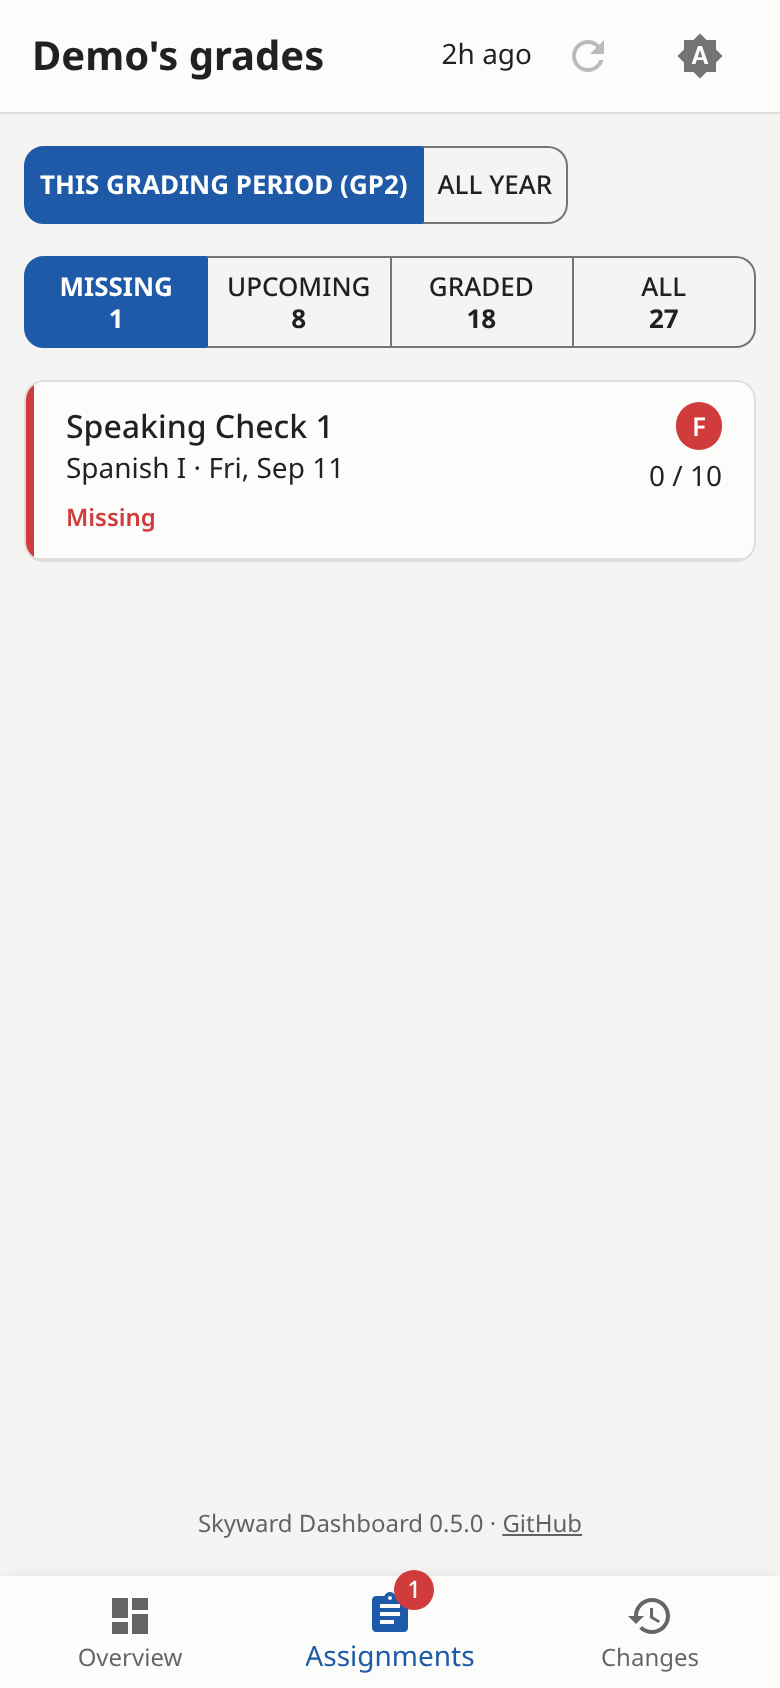
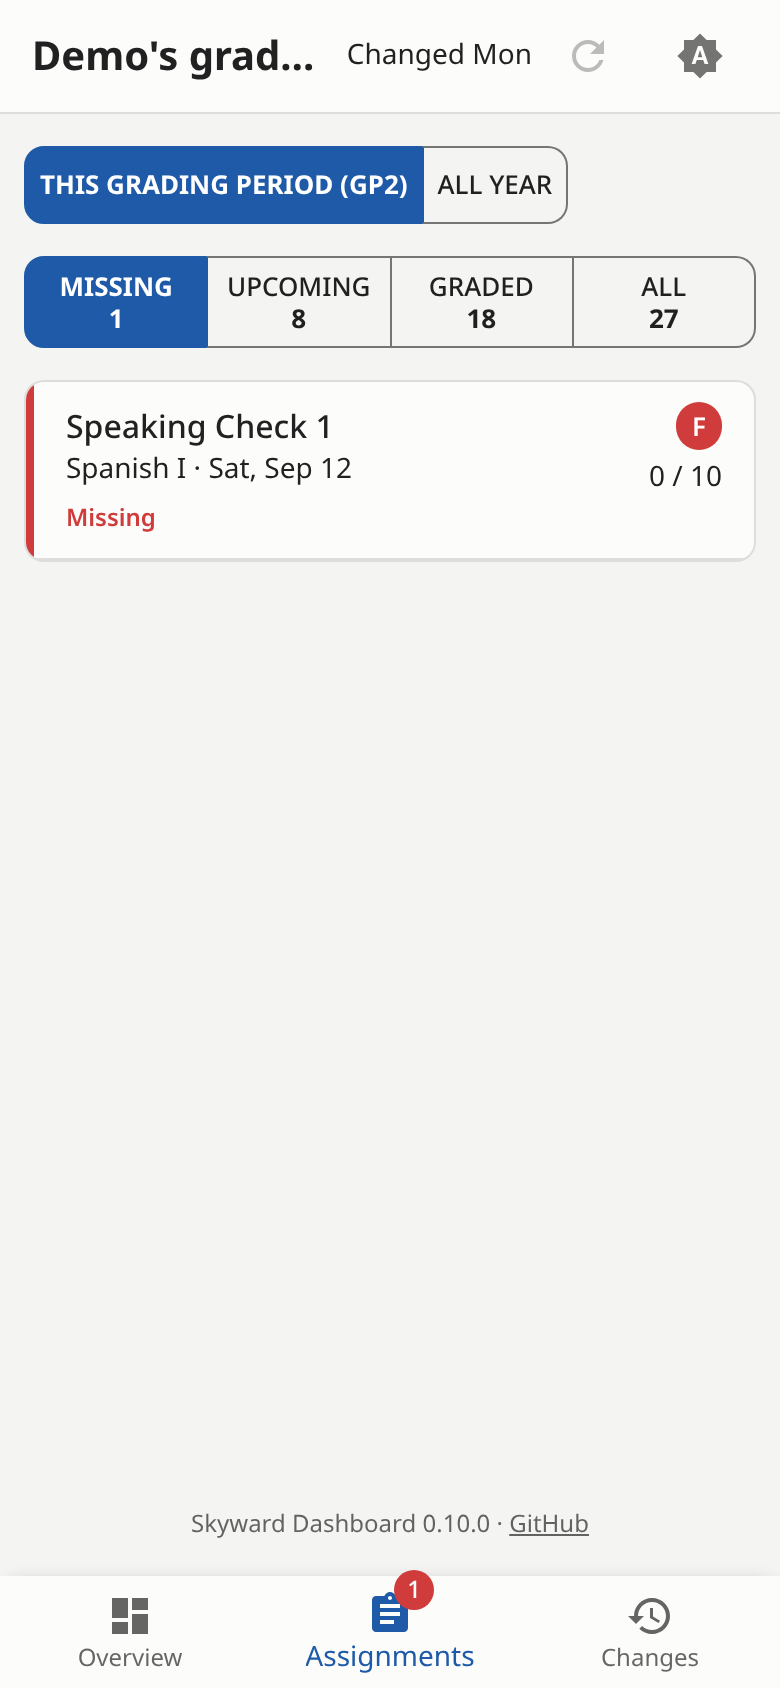
Release 0.10.0: update and change times in the web header (#30)
* Show update and change times in the web header

"Updated 2 hours ago" becomes "Updated 2:00 PM · Last change 11:00 AM",
with the day in front when it wasn't today. The last change is the last
update that found something new, as the e-paper display shows it;
/api/status gains it as last_change. Phones show only "Changed 11:00 AM"
("Changed Mon" before today) so the name keeps its room, with both times
in the tooltip.

* Refresh the README screenshots for the new header

From scripts/screenshots.py --readme on the demo data.

* Release 0.10.0

---------

diff --git a/frontend/src/SyncStatus.jsx b/frontend/src/SyncStatus.jsx
@@ -8,12 +8,15 @@ import ErrorOutlineIcon from '@mui/icons-material/ErrorOutlineOutlined'
 import RefreshIcon from '@mui/icons-material/Refresh'
 
 import * as api from './api.js'
-import { timeAgo, timeAgoShort } from './grades.js'
+import { clockTime, clockTimeShort } from './grades.js'
 
 /**
- * "Updated 2 hours ago" plus a refresh button. Polls the status while a sync
- * runs and calls `onSynced` when one finishes, so the pages reload their data.
- * `compact` (phones) shortens it to "2h ago", with a bigger touch target.
+ * "Updated 2:00 PM · Last change 11:00 AM" plus a refresh button: when the
+ * last update ran, and when one last found something new (as the e-paper
+ * display shows it). Polls the status while a sync runs and calls `onSynced`
+ * when one finishes, so the pages reload their data. `compact` (phones)
+ * shows only "Changed 11:00 AM" ("Changed Mon" before today), with both times
+ * in the tooltip and a bigger touch target.
  */
 export default function SyncStatus({ onSynced, compact = false }) {
   const [status, setStatus] = useState(null)
@@ -57,7 +60,7 @@ export default function SyncStatus({ onSynced, compact = false }) {
     }
     restart.current = poll
     poll()
-    // Keep "x minutes ago" fresh between polls.
+    // Keep "Yesterday" and the like right across midnight between polls.
     const clock = setInterval(() => tick((n) => n + 1), 30000)
     return () => {
       cancelled = true
@@ -88,6 +91,10 @@ export default function SyncStatus({ onSynced, compact = false }) {
 
   const failed = status?.last_run?.status === 'error' ? status.last_run : null
   const updated = status?.last_success?.finished_at
+  const changed = status?.last_change?.finished_at
+  const times = updated
+    ? `Updated ${clockTime(updated)}` + (changed ? ` · Last change ${clockTime(changed)}` : '')
+    : ''
   const next = status?.next_run ? new Date(status.next_run).toLocaleString() : null
   const schedule = status?.paused
     ? 'Automatic updates are paused because Skyward rejected the sign-in'
@@ -109,12 +116,7 @@ export default function SyncStatus({ onSynced, compact = false }) {
           </Box>
         </Tooltip>
       )}
-      <Tooltip
-        title={
-          notice ||
-          (compact && !offline && updated ? `Updated ${timeAgo(updated)}. ` : '') + schedule
-        }
-      >
+      <Tooltip title={notice || (compact && !offline && times ? `${times}. ` : '') + schedule}>
         <Typography
           variant="body2"
           color={notice ? 'warning.main' : 'text.secondary'}
@@ -135,8 +137,8 @@ export default function SyncStatus({ onSynced, compact = false }) {
                 : !updated
                   ? 'Not updated yet'
                   : compact
-                    ? timeAgoShort(updated)
-                    : `Updated ${timeAgo(updated)}`}
+                    ? `Changed ${clockTimeShort(changed ?? updated).replace('Yesterday', 'yesterday')}`
+                    : times}
         </Typography>
       </Tooltip>
       {status?.syncing ? (

diff --git a/frontend/src/grades.test.js b/frontend/src/grades.test.js
@@ -15,7 +15,8 @@ import {
   gradeBand,
   semesterGrades,
   timeAgo,
-  timeAgoShort,
+  clockTime,
+  clockTimeShort,
 } from './grades.js'
 
 const grades = [
@@ -106,12 +107,22 @@ describe('dates and labels', () => {
     expect(timeAgo('2026-09-26T12:00:00Z', now)).toBe('1 day ago')
     expect(timeAgo(null, now)).toBe('never')
   })
-  it('shortens time ago for phones', () => {
-    const now = Date.parse('2026-09-27T12:00:00Z')
-    expect(timeAgoShort('2026-09-27T11:55:00Z', now)).toBe('5m ago')
-    expect(timeAgoShort('2026-09-27T09:00:00Z', now)).toBe('3h ago')
-    expect(timeAgoShort('2026-09-25T12:00:00Z', now)).toBe('2d ago')
-    expect(timeAgoShort('2026-09-27T11:59:50Z', now)).toBe('just now')
+  it('gives a clock time, with the day when it is not today', () => {
+    // Local times, so the calendar day is the same wherever the tests run.
+    const now = new Date(2026, 8, 27, 12, 0).getTime()
+    const at = (day, hour, minute = 0) => new Date(2026, 8, day, hour, minute)
+    const time = (d) => d.toLocaleTimeString(undefined, { hour: 'numeric', minute: '2-digit' })
+    expect(clockTime(at(27, 9, 5).toISOString(), now)).toBe(time(at(27, 9, 5)))
+    expect(clockTime(at(26, 21).toISOString(), now)).toBe(`Yesterday ${time(at(26, 21))}`)
+    const weekday = at(23, 18).toLocaleDateString(undefined, { weekday: 'short' })
+    expect(clockTime(at(23, 18).toISOString(), now)).toBe(`${weekday} ${time(at(23, 18))}`)
+    const date = at(15, 6).toLocaleDateString(undefined, { month: 'short', day: 'numeric' })
+    expect(clockTime(at(15, 6).toISOString(), now)).toBe(`${date}, ${time(at(15, 6))}`)
+    expect(clockTime(null, now)).toBe('never')
+    expect(clockTimeShort(at(27, 9, 5).toISOString(), now)).toBe(time(at(27, 9, 5)))
+    expect(clockTimeShort(at(26, 21).toISOString(), now)).toBe('Yesterday')
+    expect(clockTimeShort(at(23, 18).toISOString(), now)).toBe(weekday)
+    expect(clockTimeShort(at(15, 6).toISOString(), now)).toBe(date)
   })
 })
 

diff --git a/frontend/src/grades.js b/frontend/src/grades.js
@@ -123,11 +123,36 @@ export function timeAgo(iso, now = Date.now()) {
   return 'just now'
 }
 
-/** '5m ago', '3h ago', '2d ago': timeAgo() for a phone's header. */
-export function timeAgoShort(iso, now = Date.now()) {
-  const long = timeAgo(iso, now)
-  const m = long.match(/^(\d+) (day|hour|minute)s? ago$/)
-  return m ? `${m[1]}${m[2][0]} ago` : long
+/** The time and, unless it's today, the day: `time` '2:05 PM', `day` 'Yesterday', 'Mon' or 'Sep 21'. */
+function whenParts(iso, now) {
+  const when = new Date(iso)
+  const time = when.toLocaleTimeString(undefined, { hour: 'numeric', minute: '2-digit' })
+  const midnight = (d) => new Date(d.getFullYear(), d.getMonth(), d.getDate())
+  // Calendar days, rounded so a daylight-saving change doesn't matter.
+  const days = Math.round((midnight(new Date(now)) - midnight(when)) / 86_400_000)
+  const day =
+    days <= 0
+      ? null
+      : days === 1
+        ? 'Yesterday'
+        : days < 7
+          ? when.toLocaleDateString(undefined, { weekday: 'short' })
+          : when.toLocaleDateString(undefined, { month: 'short', day: 'numeric' })
+  return { time, day, week: days < 7 }
+}
+
+/** '2:05 PM' today, 'Yesterday 2:05 PM', 'Mon 2:05 PM' this past week, else 'Sep 21, 2:05 PM'. */
+export function clockTime(iso, now = Date.now()) {
+  if (!iso) return 'never'
+  const { time, day, week } = whenParts(iso, now)
+  return !day ? time : week ? `${day} ${time}` : `${day}, ${time}`
+}
+
+/** clockTime() for a phone's header: the time if it's today, else only the day. */
+export function clockTimeShort(iso, now = Date.now()) {
+  if (!iso) return 'never'
+  const { time, day } = whenParts(iso, now)
+  return day ?? time
 }
 
 /** "STUDENT, DEMO" -> "Demo". */

diff --git a/app/main.py b/app/main.py
@@ -109,6 +109,8 @@ def status(request: Request) -> dict:
         "syncing": request.app.state.syncer.running,
         "last_run": next(iter(db(request).last_runs(1)), None),
         "last_success": db(request).last_success(),
+        # The last good sync that found something new, as the e-paper display shows.
+        "last_change": db(request).last_change(),
         "next_run": job.next_run_time.isoformat() if job and job.next_run_time else None,
         "schedule": request.app.state.syncer.settings.sync_cron if job else None,
         # Automatic syncs are paused after Skyward rejected the sign-in.

diff --git a/tests/test_api.py b/tests/test_api.py
@@ -34,6 +34,7 @@ def test_ping_reports_the_pyproject_version(client):
 def test_status_without_credentials(client):
     body = client.get("/api/status").json()
     assert body["last_success"]["status"] == "ok"
+    assert body["last_change"]["id"] == body["last_success"]["id"]  # the only sync
     assert body["next_run"] is None and body["syncing"] is False
     r = client.post("/api/sync", headers={"X-Requested-With": "XMLHttpRequest"})
     assert r.status_code == 400

diff --git a/docs/releases/0.10.0.md b/docs/releases/0.10.0.md
@@ -1,0 +1,23 @@
+The dashboard's header now shows when it last updated and when something last changed, as times
+instead of "2 hours ago".
+
+## What's changed
+
+- **Update and change times in the header.** It reads "Updated 2:00 PM · Last change 11:00 AM",
+  with the day in front when it wasn't today ("Yesterday 9:00 PM", "Mon 6:00 PM"). Not every
+  update finds something new, so the last change is often earlier than the last update; it's the
+  same time the e-paper display shows.
+- **On phones**, the header shows just the last change ("Changed 11:00 AM", or "Changed Mon"
+  when it wasn't today) so the student's name keeps its room. Tap it for both times.
+- `/api/status` gains `last_change`, the last update that found something new.
+
+## Upgrading
+
+`docker compose up -d` picks this up if you have `pull_policy: always`. Otherwise run
+`docker compose pull && docker compose up -d`. To stay on this release, set the image line to:
+
+```yaml
+    image: afraley/skyward-dashboard:0.10.0
+```
+
+Nothing changes in the display firmware.

diff --git a/README.md b/README.md
@@ -118,8 +118,9 @@ display.
 Everything is read-only over the local copy, except `POST /api/sync`.
 
 - `GET /api/ping`: liveness and the running version
-- `GET /api/status`: the last update, the next scheduled one, whether one is running, and
-  whether automatic updates are paused because Skyward rejected the sign-in
+- `GET /api/status`: the last update, the last one that found something new (`last_change`),
+  the next scheduled one, whether one is running, and whether automatic updates are paused
+  because Skyward rejected the sign-in
 - `POST /api/sync`: update now. It needs the header `X-Requested-With: XMLHttpRequest`, so a web
   page on another site can't start one: `curl -X POST -H 'X-Requested-With: XMLHttpRequest'
   http://localhost:8080/api/sync`. 409 if one is running, 429 within five minutes of the last.
